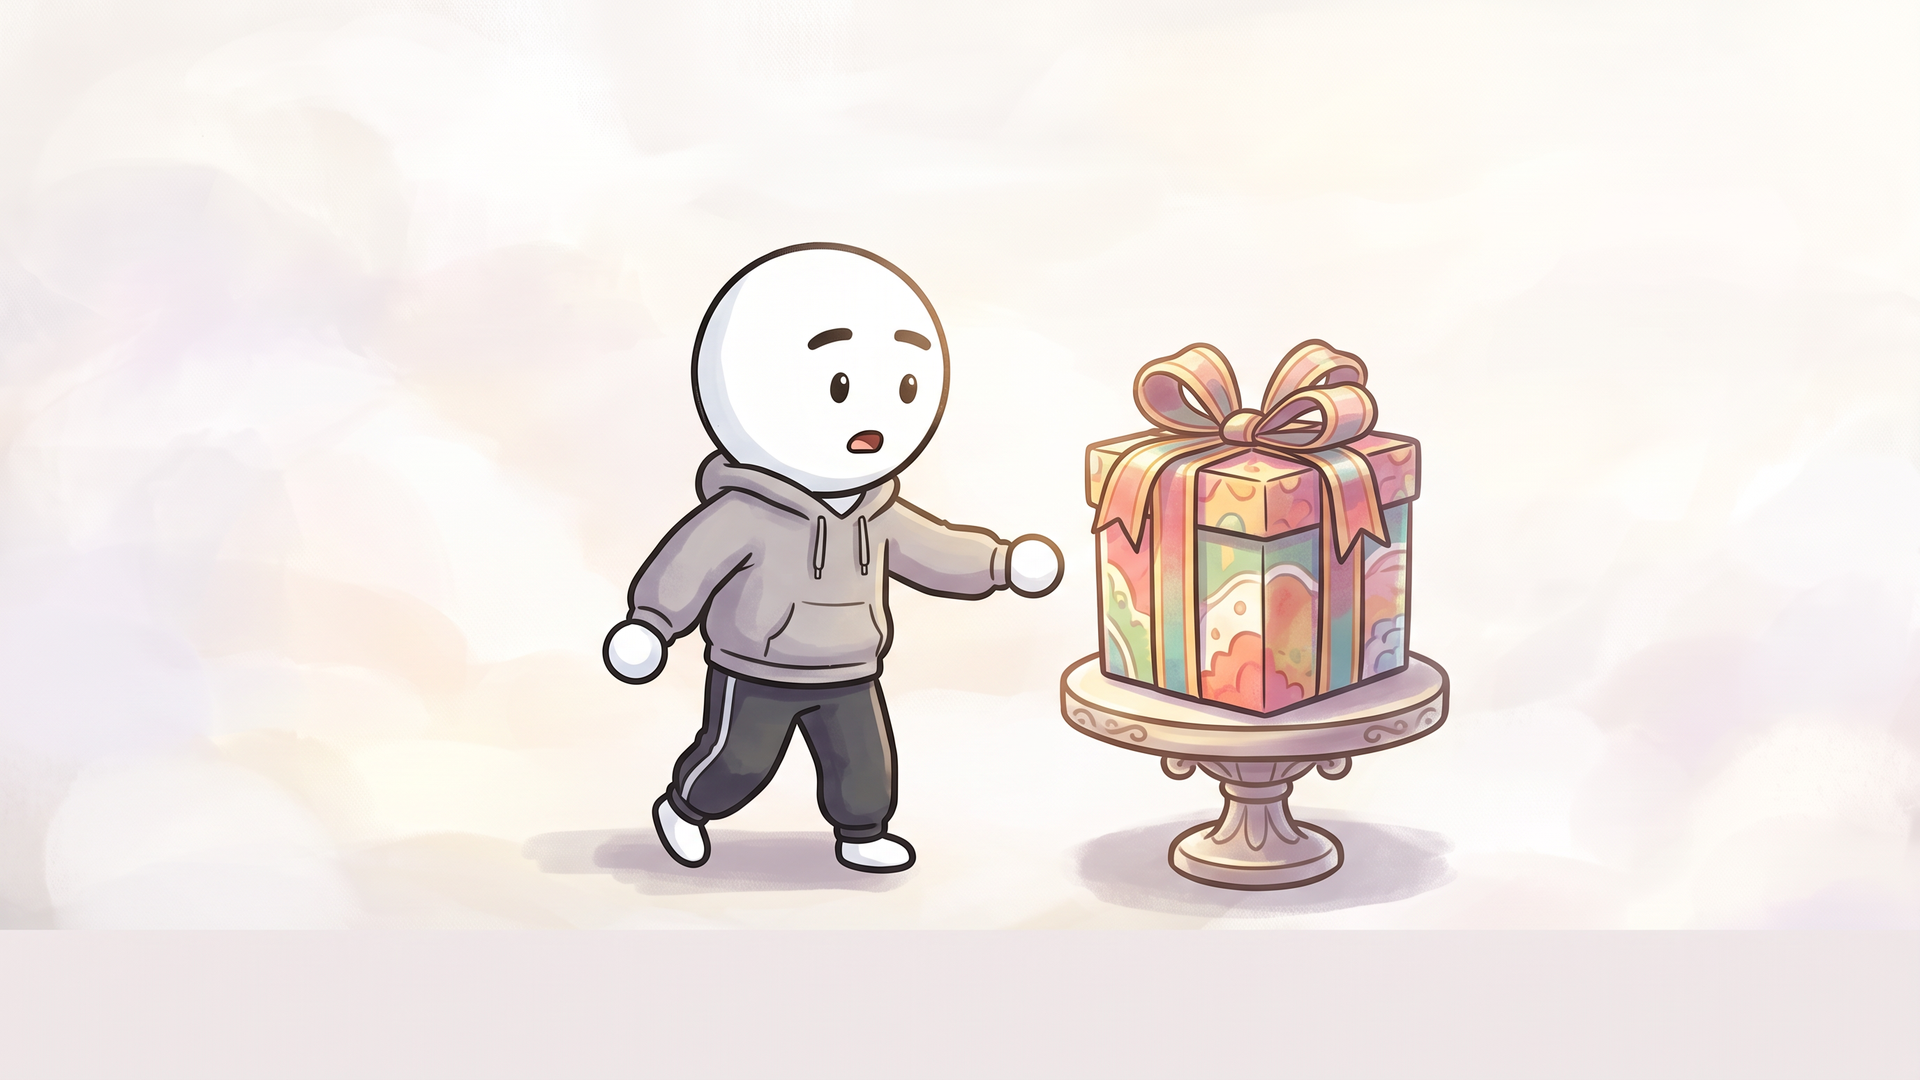
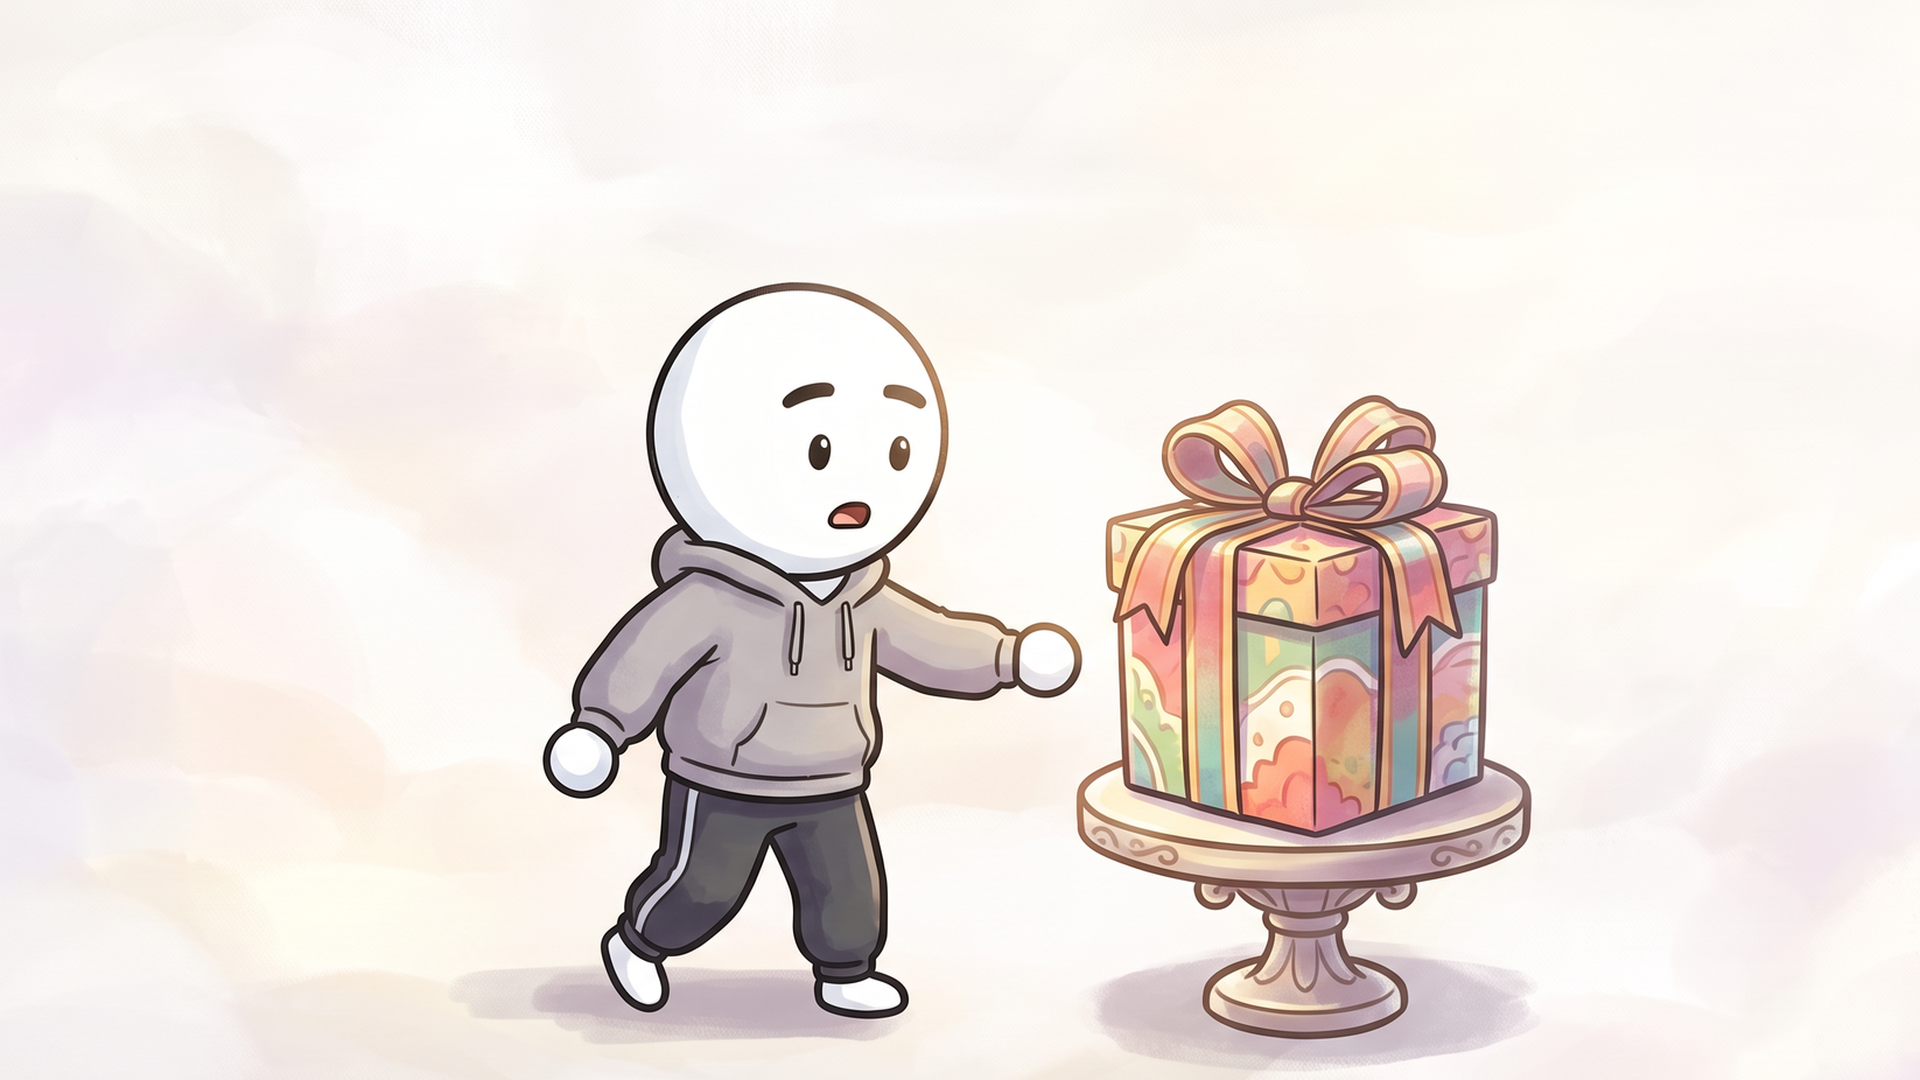
소원의 방: B3 아래 띠 잘라냄, B8 후드티로 다시 그리기 프롬프트, 그림 추가
Claude-Session: https://claude.ai/code/session_01PP8aZytzxtKtqeNU9SfZkC

Changed region(s): [[0.2812, 0.2139, 0.8125, 1.0], [0.0, 0.825, 0.0312, 0.8861]]

diff --git a/wishroom/make_ai.py b/wishroom/make_ai.py
@@ -61,7 +61,7 @@ JOBS.update({
  'B5': ([ZR, 'ai/A9.png'], f'{ZH} Zero sits alone on top of a tall labyrinth wall, legs dangling, head lowered, inside {VOID}; the maze below stretches far away. Quiet, lonely, soft pale light.'),
  'B6': ([ZR, 'ai/A9.png'], f'{ZH} In {VOID}: Zero sits on a floor cushion at a wooden baduk (go) board with bowls of black and white stones; across from him sits a faceless opponent made of soft white light, the same size as Zero. The board is completely empty. Zero stares at it without moving. Still, quiet, pale colors.'),
  'B7': ([ZR, 'ai/A1.png'], f'{ZH} In {VOID}: floating in the middle of the endless white space is a small cut-away diorama of the SAME semi-basement room as in the second reference picture (bed, small round table, high window), like a doll house; Zero stands in front of it, small, looking at it with longing. Pale, dreamy.'),
- 'B8': ([ZR, 'ai/A3.png'], f'{Z} The SAME outdoor concrete stairs and the SAME old landlord doctor as in the second reference picture, sitting on a step wiping the wooden baduk board — but everything is slightly too perfect and pale, like a faded memory, and the edges of the scene dissolve into white mist. Zero stands below the doctor with a trembling, longing face; the doctor smiles exactly the same frozen smile. Pale, wistful.'),
+ 'B8': ([ZR, 'ai/A3.png'], f'{ZH} (He wears the grey hoodie, NOT an office shirt.) The SAME outdoor concrete stairs and the SAME old landlord doctor as in the second reference picture, sitting on a step wiping the wooden baduk board — but everything is slightly too perfect and pale, like a faded memory, and the edges of the scene dissolve into white mist. Zero stands below the doctor with a trembling, longing face; the doctor smiles exactly the same frozen smile. Pale, wistful.'),
  'C1': ([ZR, 'ai/A1.png'], f'{ZH} The SAME semi-basement room as in the second reference picture, early morning, warm golden light now pouring through the high window: Zero sits on the floor at the small round table holding a small unfolded paper note in both hands (the note is blank, no writing), looking at it with wide, puzzled, moved eyes; the crumpled ramen packet and the cold ramen cup are on the table. Rich warm colors, gentle, emotional.'),
  'C2': ([ZR, 'ai/A1.png'], f'{ZH} The SAME semi-basement room, morning, warm light: Zero sits at the small round table eating cold instant ramen slowly with chopsticks, eyes closed, with a small peaceful smile; the small paper note lies open beside the cup. Cosy, warm, vivid colors.'),
  'C3': ([ZR, 'ai/A4.png'], f'{Z} The SAME Seoul subway line 2 car as in the second reference picture, but now bright morning sunlight floods in as the train runs above ground across a bridge over the Han River; Zero sits in the same seat looking out of the window with a gentle, curious smile; next to him a small child (round-head style) bursts out laughing. Vivid, warm, fresh colors.'),
